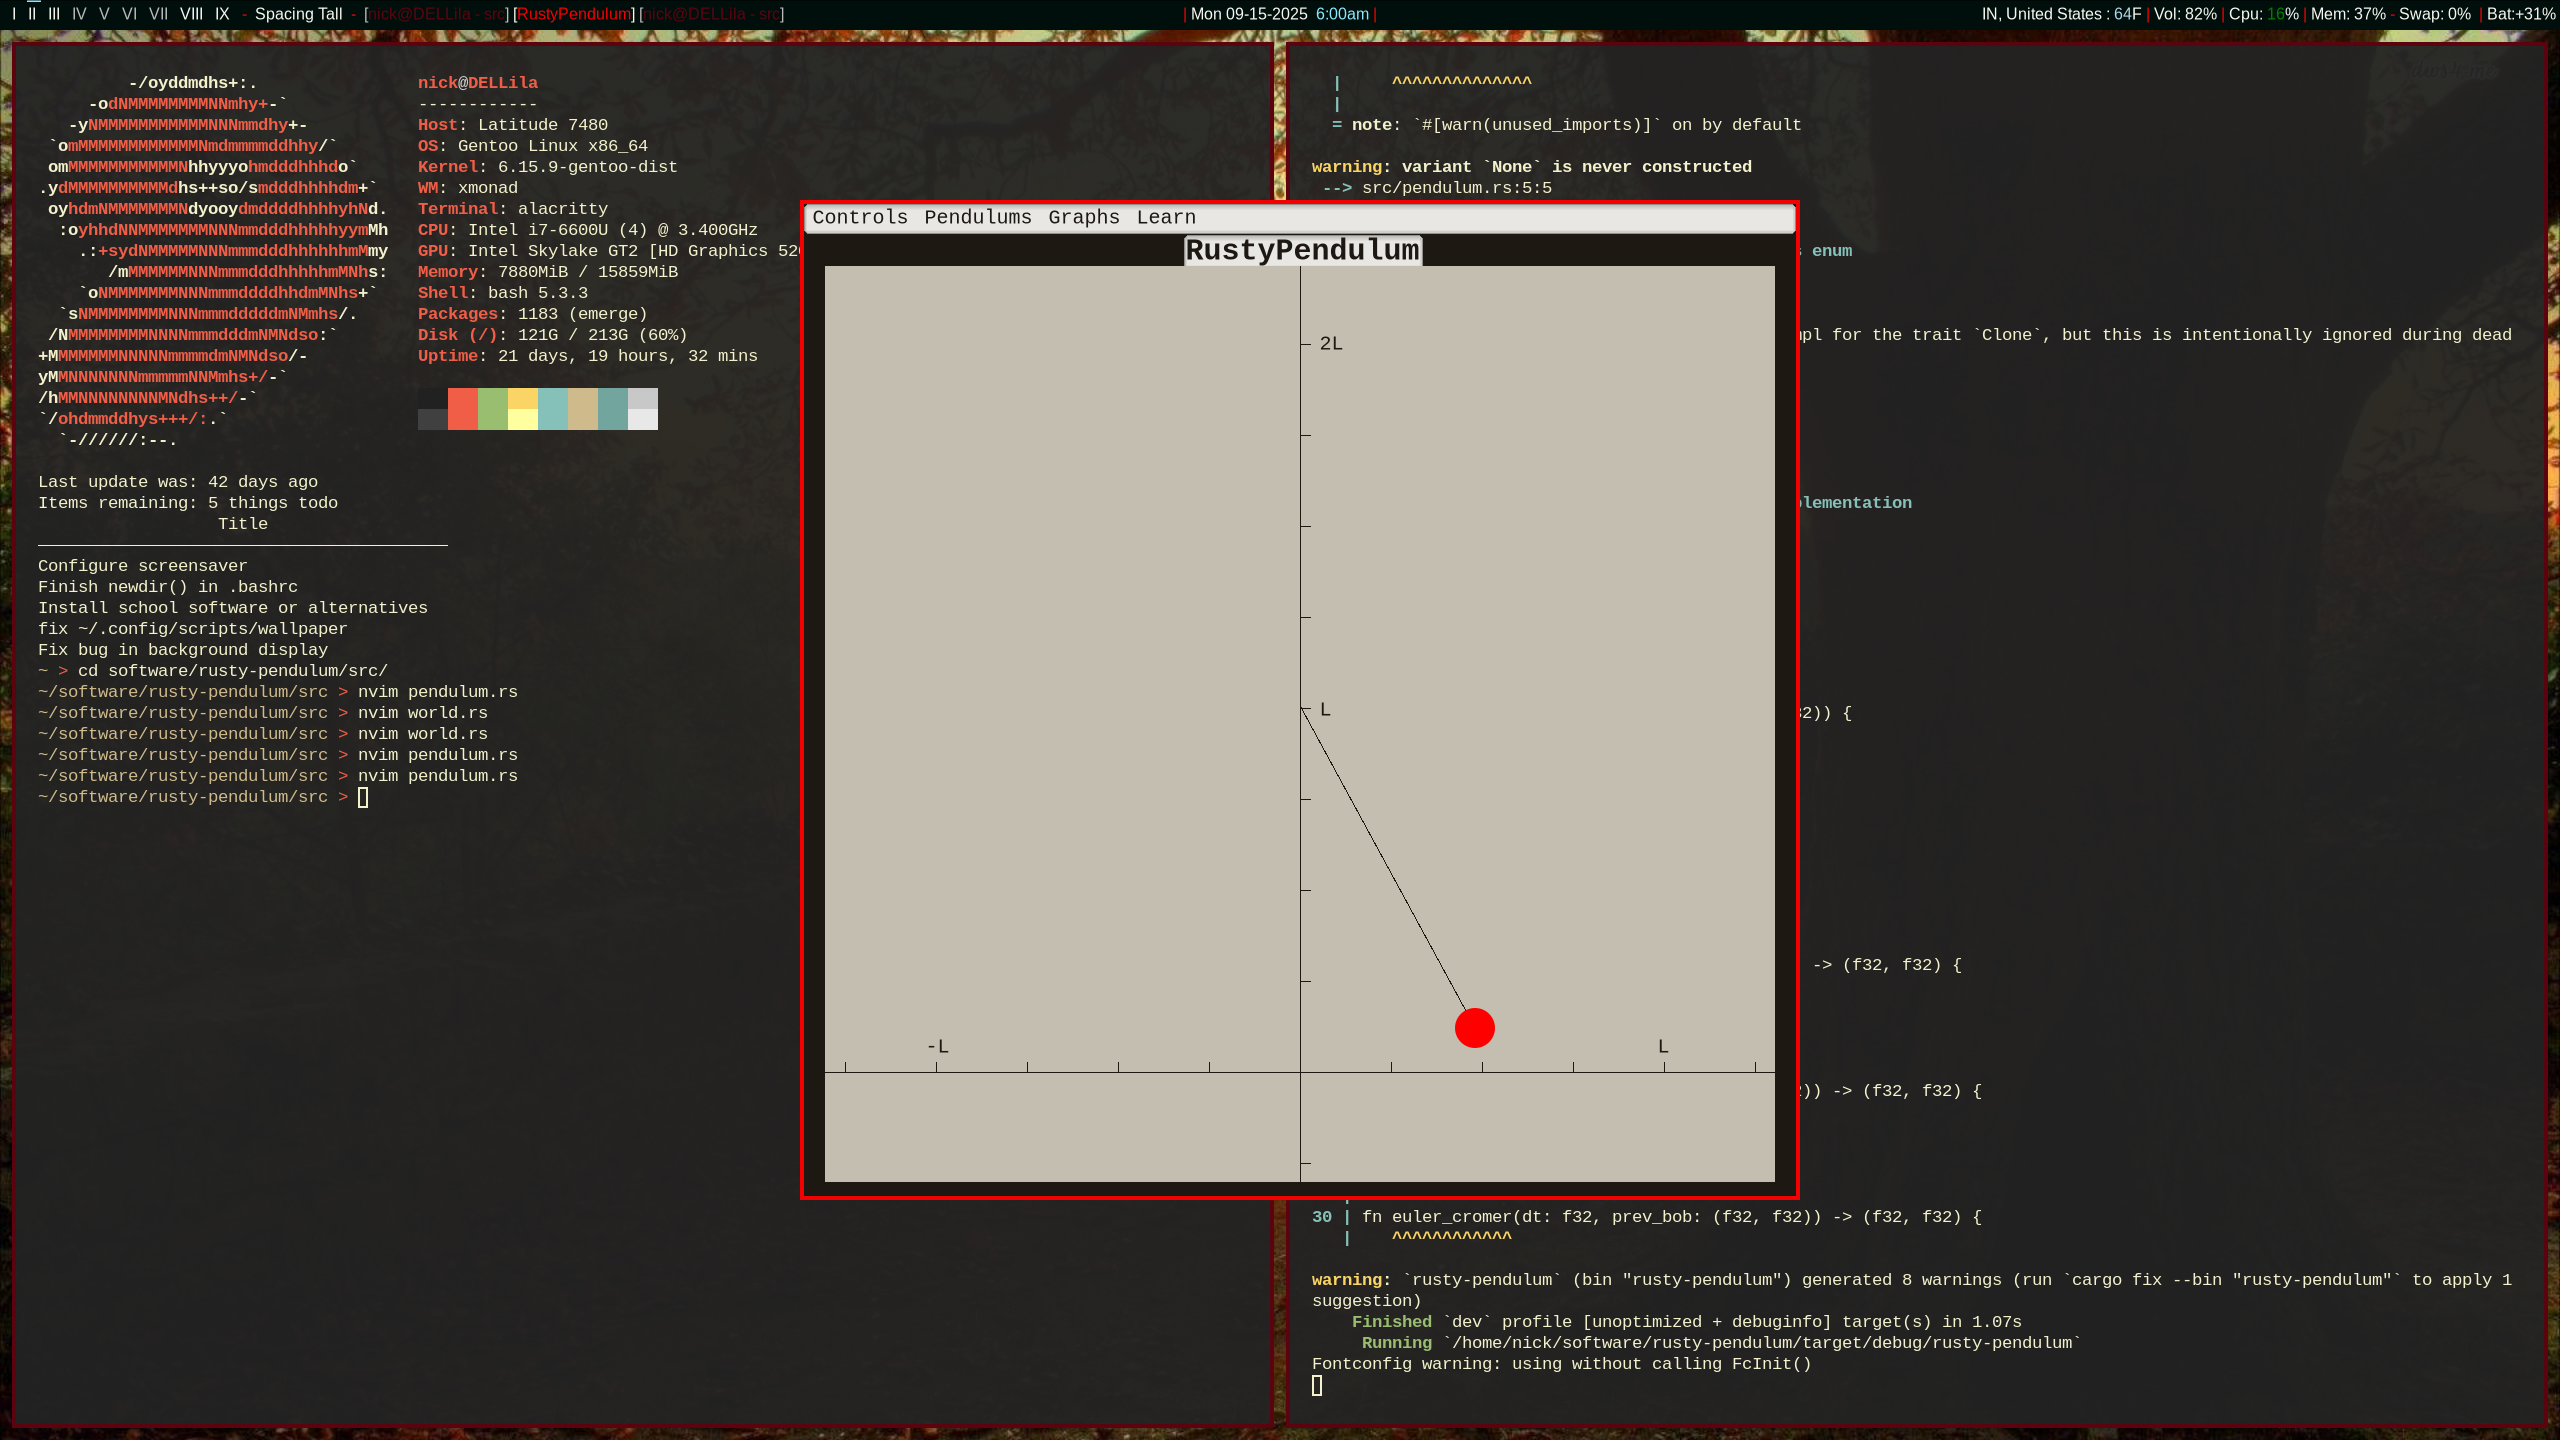
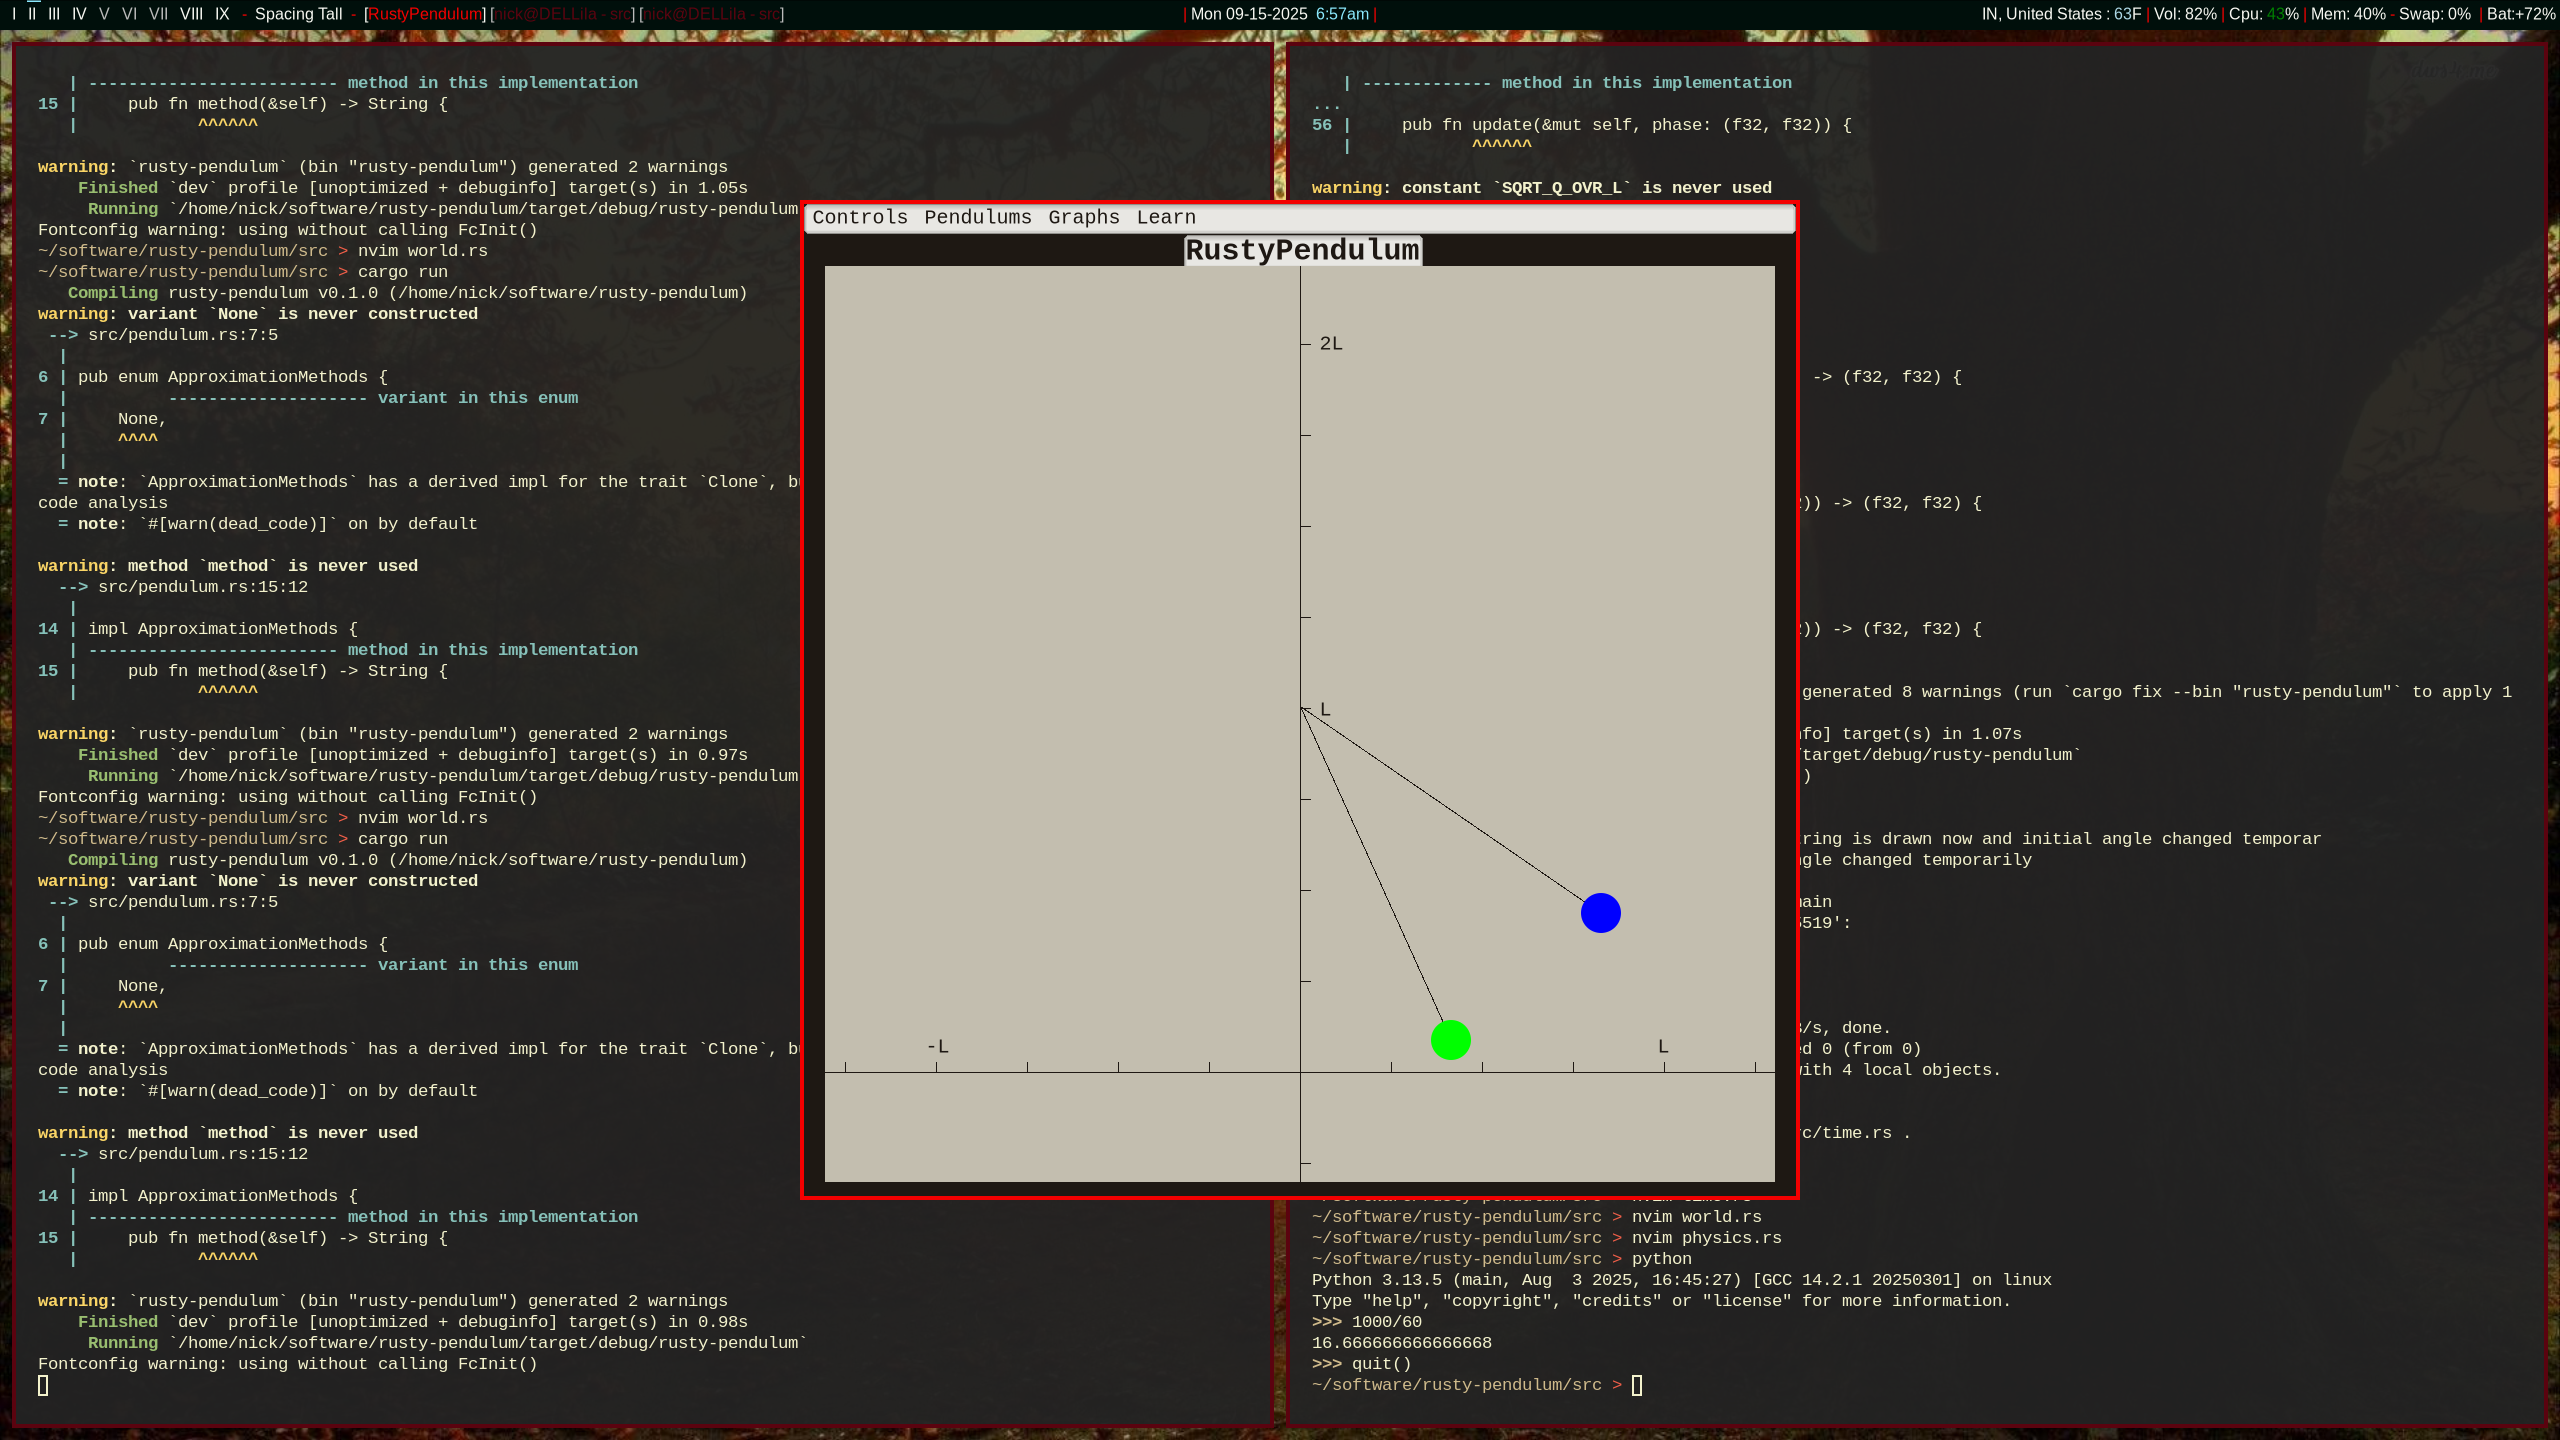
basic physics implemented for euler and euler-cromer methods

diff --git a/src/menu_bar.rs b/src/menu_bar.rs
@@ -6,7 +6,6 @@ use fltk::enums::*;
 use std::rc::Rc;
 use std::cell::RefCell;
 
-use crate::physics;
 use crate::world;
 use crate::pendulum;
 
@@ -57,25 +56,47 @@ impl TopMenuBar {
             "Controls/Play\t",
             Shortcut::None,
             menu::MenuFlag::Normal,
-            control_callback
+            {
+                let world_clone = world.clone();
+                move |_| {
+                    world_clone.borrow_mut().play = true;
+                }
+            }
         );
         self.menubar_widget.add(
             "Controls/Pause\t",
             Shortcut::None,
             menu::MenuFlag::Normal,
-            control_callback
+            {
+                let world_clone = world.clone();
+                move |_| {
+                    world_clone.borrow_mut().play = false;
+                }
+            }
+
         );
         self.menubar_widget.add(
             "Controls/Reset\t",
             Shortcut::None,
             menu::MenuFlag::MenuDivider,
-            control_callback
+            {
+                //let world_clone = world.clone();
+                move |_| {
+                    // todo: do something
+                }
+            }
+
         );
         self.menubar_widget.add(
             "Controls/Quit\t",
             Shortcut::None,
             menu::MenuFlag::Normal,
-            control_callback
+            {
+                move |_| {
+                    app::quit();
+                }
+            }
+
         );
         // Pendulums
         self.menubar_widget.add(
@@ -89,7 +110,6 @@ impl TopMenuBar {
                     world::World::add_remove_system(pendulum_length,
                         pendulum::ApproximationMethods::SmallAngle,
                         &mut world_clone.borrow_mut().systems);
-                    world_clone.borrow_mut().window.redraw();
                 }
             }
         );
@@ -104,7 +124,6 @@ impl TopMenuBar {
                     world::World::add_remove_system(pendulum_length, 
                         pendulum::ApproximationMethods::Euler,
                         &mut world_clone.borrow_mut().systems);
-                    world_clone.borrow_mut().window.redraw();
                 }
             }
         );
@@ -119,7 +138,6 @@ impl TopMenuBar {
                     world::World::add_remove_system(pendulum_length, 
                         pendulum::ApproximationMethods::EulerCromer,
                         &mut world_clone.borrow_mut().systems);
-                    world_clone.borrow_mut().window.redraw();
                 }
             }
         );
@@ -134,7 +152,6 @@ impl TopMenuBar {
                     world::World::add_remove_system(pendulum_length, 
                         pendulum::ApproximationMethods::RungeKutta,
                         &mut world_clone.borrow_mut().systems);
-                    world_clone.borrow_mut().window.redraw();
                 }
             }
         );

diff --git a/src/physics.rs b/src/physics.rs
@@ -1,7 +1,7 @@
 const SQRT_Q_OVR_L: f32 = 1f32;
 
 // Small-angle analytic approximation
-fn small_angle(dt: f32, prev_bob: (f32, f32)) -> (f32, f32) {
+pub fn small_angle(dt: f32, prev_bob: (f32, f32)) -> (f32, f32) {
     // Small-angle approximation is analytical, meaning:
     //
     // -> Provide the TOTAL elapsed time and the initial angle
@@ -18,7 +18,7 @@ fn small_angle(dt: f32, prev_bob: (f32, f32)) -> (f32, f32) {
 }
 
 // Second-order Euler method
-fn euler_method(dt: f32, prev_bob: (f32, f32)) -> (f32, f32) {
+pub fn euler_method(dt: f32, prev_bob: (f32, f32)) -> (f32, f32) {
     let theta = prev_bob.0 + dt*prev_bob.1; // theta_n+1 = theta_n + dt*omega_n
     // The following calculation is inefficient if sqrt_g_ovr_L remains 1 because 1*1=1
     let theta_double_dot = -(SQRT_Q_OVR_L*SQRT_Q_OVR_L)*prev_bob.0.sin(); // alpha_n = -g/L*sin(theta_n)
@@ -27,7 +27,7 @@ fn euler_method(dt: f32, prev_bob: (f32, f32)) -> (f32, f32) {
 }
 
 // Second-order Euler-Cromer method
-fn euler_cromer(dt: f32, prev_bob: (f32, f32)) -> (f32, f32) {
+pub fn euler_cromer(dt: f32, prev_bob: (f32, f32)) -> (f32, f32) {
     // This method comes from Euler method but swap the order of position and velocity calculation
     // and then use the new velocity
     // The following calculation is inefficient if sqrt_g_ovr_L remains 1 because 1*1=1
@@ -38,6 +38,6 @@ fn euler_cromer(dt: f32, prev_bob: (f32, f32)) -> (f32, f32) {
 }
 
 // Runge-Kutta?
-/*fn runge_kutta(dt: f32, prev_bob: (f32, f32)) -> (f32, f32) {
+/*pub fn runge_kutta(dt: f32, prev_bob: (f32, f32)) -> (f32, f32) {
     (0f32, 0f32)
 }*/

diff --git a/src/world.rs b/src/world.rs
@@ -3,6 +3,7 @@ use fltk::window;
 use fltk::enums::{Color, Font};
 use fltk::draw;
 
+use crate::time;
 use crate::pendulum::*;
 
 // the pendulum systems
@@ -14,6 +15,8 @@ pub struct World {
     pub systems: Vec<Pendulum>,
     size: (i32, i32),
     pos: (i32, i32),
+    time: time::FrameTimer,
+    pub play: bool,
     bg_color: Color,
     text_color: Color,
     pub len: i32, // L - length of the pendulum in pixels
@@ -31,6 +34,8 @@ impl World {
             systems: Vec::new(),
             size: size,
             pos: (0, 0), // Temporary -> call set_height
+            time: time::FrameTimer::new(),
+            play: false,
             bg_color: bg_color,
             text_color: text_color,
             len: len.floor() as i32,  // 2.5 L's fit in the frame
@@ -64,6 +69,17 @@ impl World {
 
     pub fn screen_pos(orig: (i32, i32), world_pos: (i32, i32)) -> (i32, i32) {
         (world_pos.0 + orig.0, -world_pos.1 + orig.1)
+    }
+
+    pub fn update(&mut self) {
+        let millisperframe: u128 = 17; // roughly 60 fps
+        // If this many milliseconds have passed since last frame
+        // calculate new pendulum positions
+        if self.time.mark(millisperframe) && self.play {
+            for system in &mut self.systems {
+                system.update(0.035f32);
+            }
+        }
     }
 
     pub fn draw(&mut self) {

diff --git a/src/pendulum.rs b/src/pendulum.rs
@@ -1,5 +1,7 @@
 use fltk::enums::Color;
 
+use crate::physics;
+
 #[derive(PartialEq, Clone)]
 pub enum ApproximationMethods {
     None,
@@ -52,8 +54,15 @@ impl Pendulum {
         }
     }
 
-
-    pub fn update(&mut self, phase: (f32, f32)) {
+    pub fn update(&mut self, dt: f32) {
+        let mut phase: (f32, f32) = (self.theta, self.theta_dot);
+        match self.method {
+            ApproximationMethods::SmallAngle => { phase = physics::small_angle(dt, phase); },
+            ApproximationMethods::Euler => { phase = physics::euler_method(dt, phase); },
+            ApproximationMethods::EulerCromer => { phase = physics::euler_cromer(dt, phase); },
+            ApproximationMethods::RungeKutta => { /*TODO: do stuff */ },
+            _ => { /* unreachable */ }
+        }
         self.theta = phase.0;
         self.theta_dot = phase.1;
     }

diff --git a/src/time.rs b/src/time.rs
@@ -1,0 +1,25 @@
+use std::time::Instant;
+
+#[derive(Clone)]
+pub struct FrameTimer {
+    last_frame: Instant
+}
+
+impl FrameTimer {
+
+    pub fn new() -> Self {
+        Self {
+            last_frame: Instant::now()
+        }
+    }
+
+    pub fn mark(&mut self, millis_perframe: u128) -> bool {
+        let now = Instant::now();
+        let new_frame = now.duration_since(self.last_frame).as_millis() > millis_perframe;
+        if new_frame {
+            self.last_frame = now;
+        }
+        return new_frame;
+    }
+
+}

diff --git a/src/main.rs b/src/main.rs
@@ -11,6 +11,7 @@ mod menu_bar;
 mod world;
 mod pendulum;
 mod physics;
+mod time;
 
 //const APP_ID: &str = "org.physics_sim.rusty_pendulum";
 
@@ -66,6 +67,8 @@ fn main() -> Result<(), String> {
 
     while app.wait() {
         world_cell.borrow_mut().draw();
+        world_cell.borrow_mut().update();
+        world_cell.borrow_mut().window.redraw();
     }
 
     Ok(())

diff --git a/README.md b/README.md
@@ -4,7 +4,21 @@
 
 This project is a simple simulation of a simple pendulum. The goal is to demonstrate how different solutions to the simple pendulum (small angle analytical approximation vs Euler, Euler-Cromer, Runge-Kutta numerical approximations) compare. 
 
-This project is the successor of PendulumSIM: https://github.com/NickAllbritton/pendulum-sim
+This project is the successor of [PendulumSIM](#what-is-pendulumsim): https://github.com/NickAllbritton/pendulum-sim
+
+## Progress
+
+The project is being written in Rust and the chosen GUI platform is [FLTK](https://fltk-rs.github.io/fltk-book/Home.html). 
+There is now functionality! Although it still needs work, Euler method and Euler-Cromer method are both implemented.
+There is no way to set where the pendulum starts right now except by changing the code, so that will need to be changed. 
+
+![Current look of RustyPendulum](./screenshots/Current.png)
+
+Future plans:
+- Show a 'shadow' pendulum which holds the place of the start position with ApproximationMethods::None
+- Control->Reset menu bar option resets all the pendulum angles/velocities to the shadow pendulum
+- Allow dragging the pendulums from 0 degrees to starting position with mouse
+- Track relevant physical quantities against a global time variable to allow graphs to be opened from the menu and/orcsv files to be opened after to create graphs with a spreadsheet
 
 ## What is PendulumSIM
 
@@ -21,11 +35,3 @@ Ummm, first of all, why so judgmental? Anyhow, there is good reason to port to R
 - Considerations: Python is a language that is very popular in university classrooms for some reason. Most students have seen some Python before, though, so that would make it an ideal choice to fix some of these problems. However, python would be slower than C++ to run, and great libraries for graphics seem difficult to track down. 
 
 - Solution: Rust greatly simplifies the build process of older systems level languages like C++ and C by shipping with its own build system: Cargo. To contribute to the project, simply install Rust and clone the project. Rust makes seg faults and other such issues that were plaguing [PendulumSIM](https://github.com/NickAllbritton/pendulum-sim) easily preventable, however, Rust is also a very fast language. So, Rust was my ideal candidate to port the simulation.
-
-## Progress
-
-The project is being written in Rust and the chosen GUI platform is [FLTK](https://fltk-rs.github.io/fltk-book/Home.html). 
-The UI is being carefully designed now, and is still a work in progress. There is no functionality, except for a menu item 
-that quits the application.
-
-![Current look of RustyPendulum](./screenshots/Current.png)
